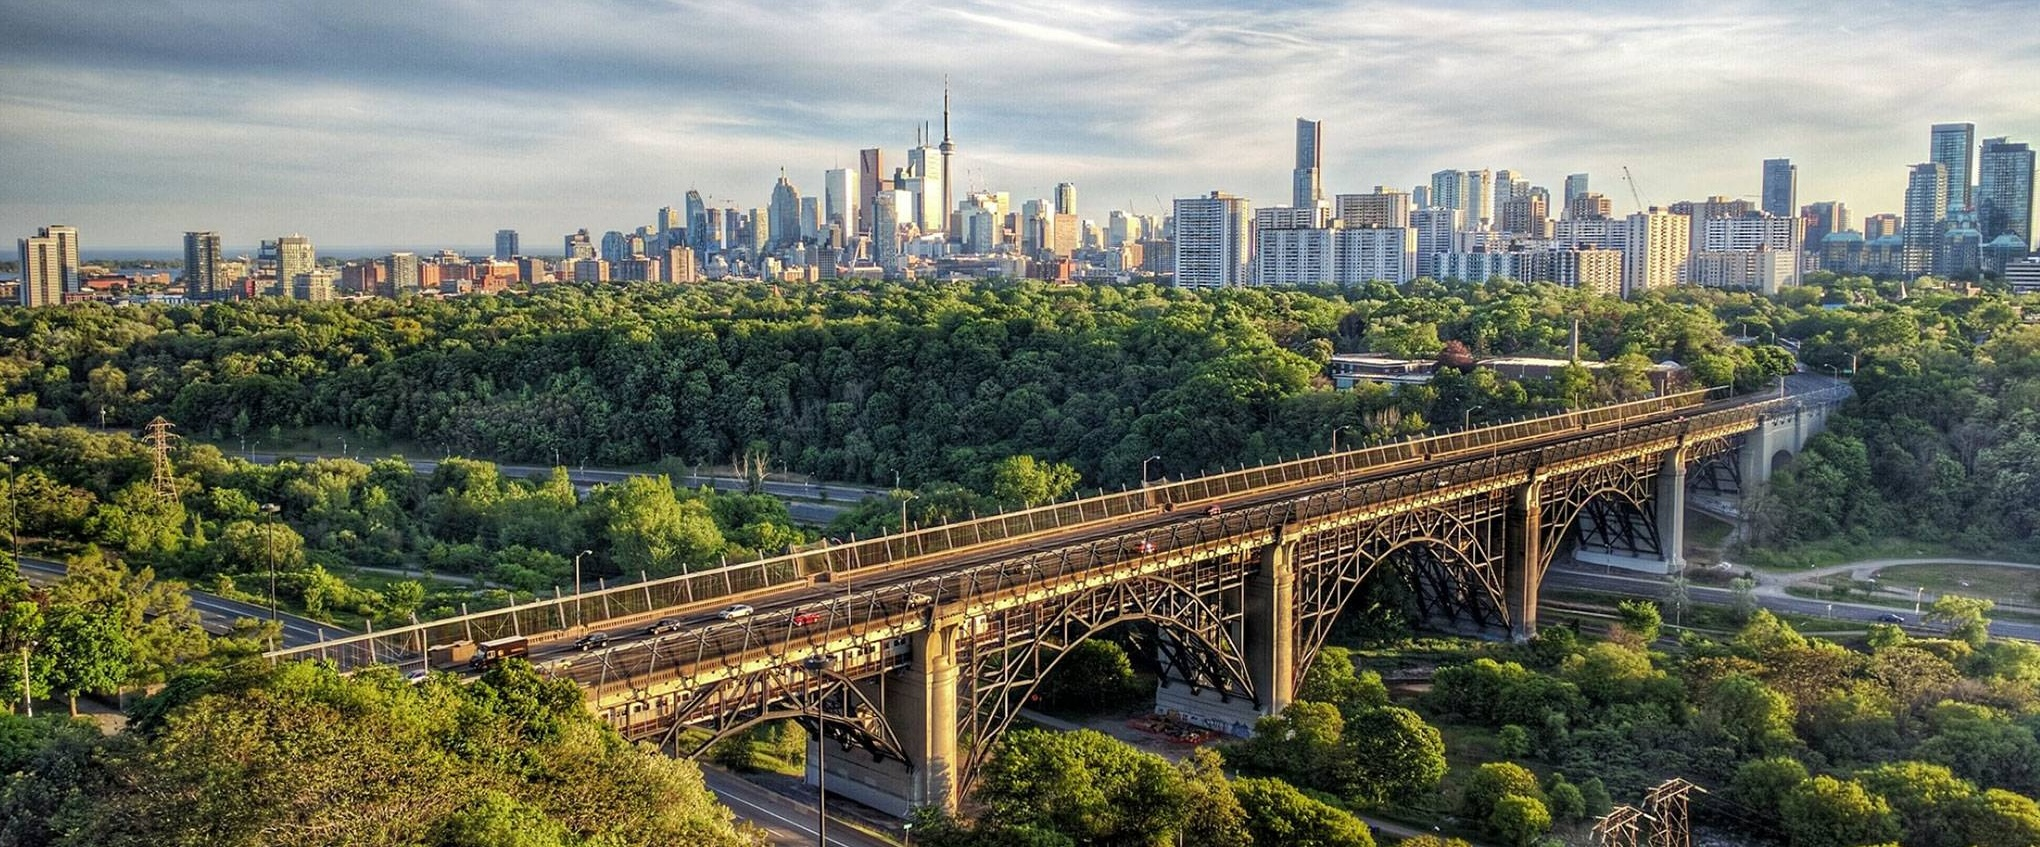
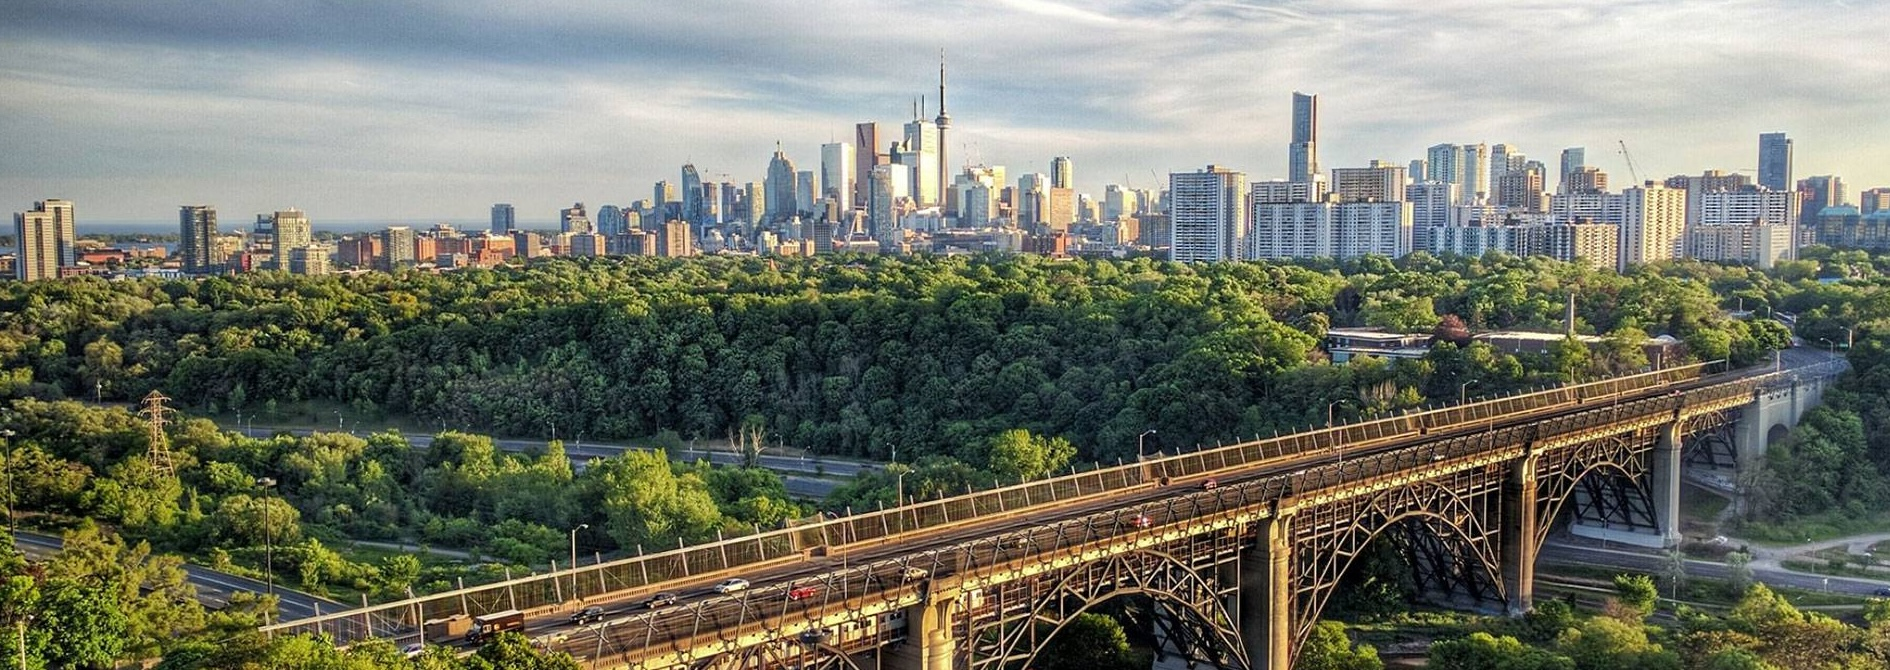
making images smaller

diff --git a/course.html b/course.html
@@ -40,7 +40,7 @@
     
     <div class="sticky-header">
         <div class="logo-container">
-            <img src="https://hiddenrivers.ca/images/logo.png" alt="Hidden Rivers Logo" class="logo">
+            <img src="images/logo.webp" alt="Hidden Rivers Logo" class="logo">
         </div>
         <div class="title-container">
             <h1>Toronto's 12,000 Year History</h1>
@@ -233,7 +233,7 @@
 
     <div class="sticky-footer">
         <div class="logo-container">
-            <img src="images/logo.png" alt="Hidden Rivers Logo" class="logo">
+            <img src="images/logo.webp" alt="Hidden Rivers Logo" class="logo">
         </div>
         <div class="title-container">
             <h1>Toronto's 12,000 Year History</h1>

diff --git a/index.html b/index.html
@@ -71,7 +71,7 @@
     <div class="offerings">
       <a class="offering-box" href="https://lu.ma/hiddenrivers" target="_blank">
         <div class="offering-title">Book a Tour</div>
-        <img class="offering-image" src="images/book_tour2.JPG" alt="Tour photo">
+        <img class="offering-image" src="images/book_tour.webp" alt="Tour photo">
         <div class="offering-desc">Pay-what-you-can walking tours around Toronto all summer long.</div>
       </a>
       <a class="offering-box" href="/course.html">

diff --git a/styles.css b/styles.css
@@ -21,7 +21,7 @@ body {
   width: 100%;
   height: 60vh;
   min-height: 400px;
-  background: url('images/banner2.jpg') top center/cover no-repeat;
+  background: url('/images/banner.webp') top center/cover no-repeat;
   display: flex;
   flex-direction: column;
   align-items: center;
